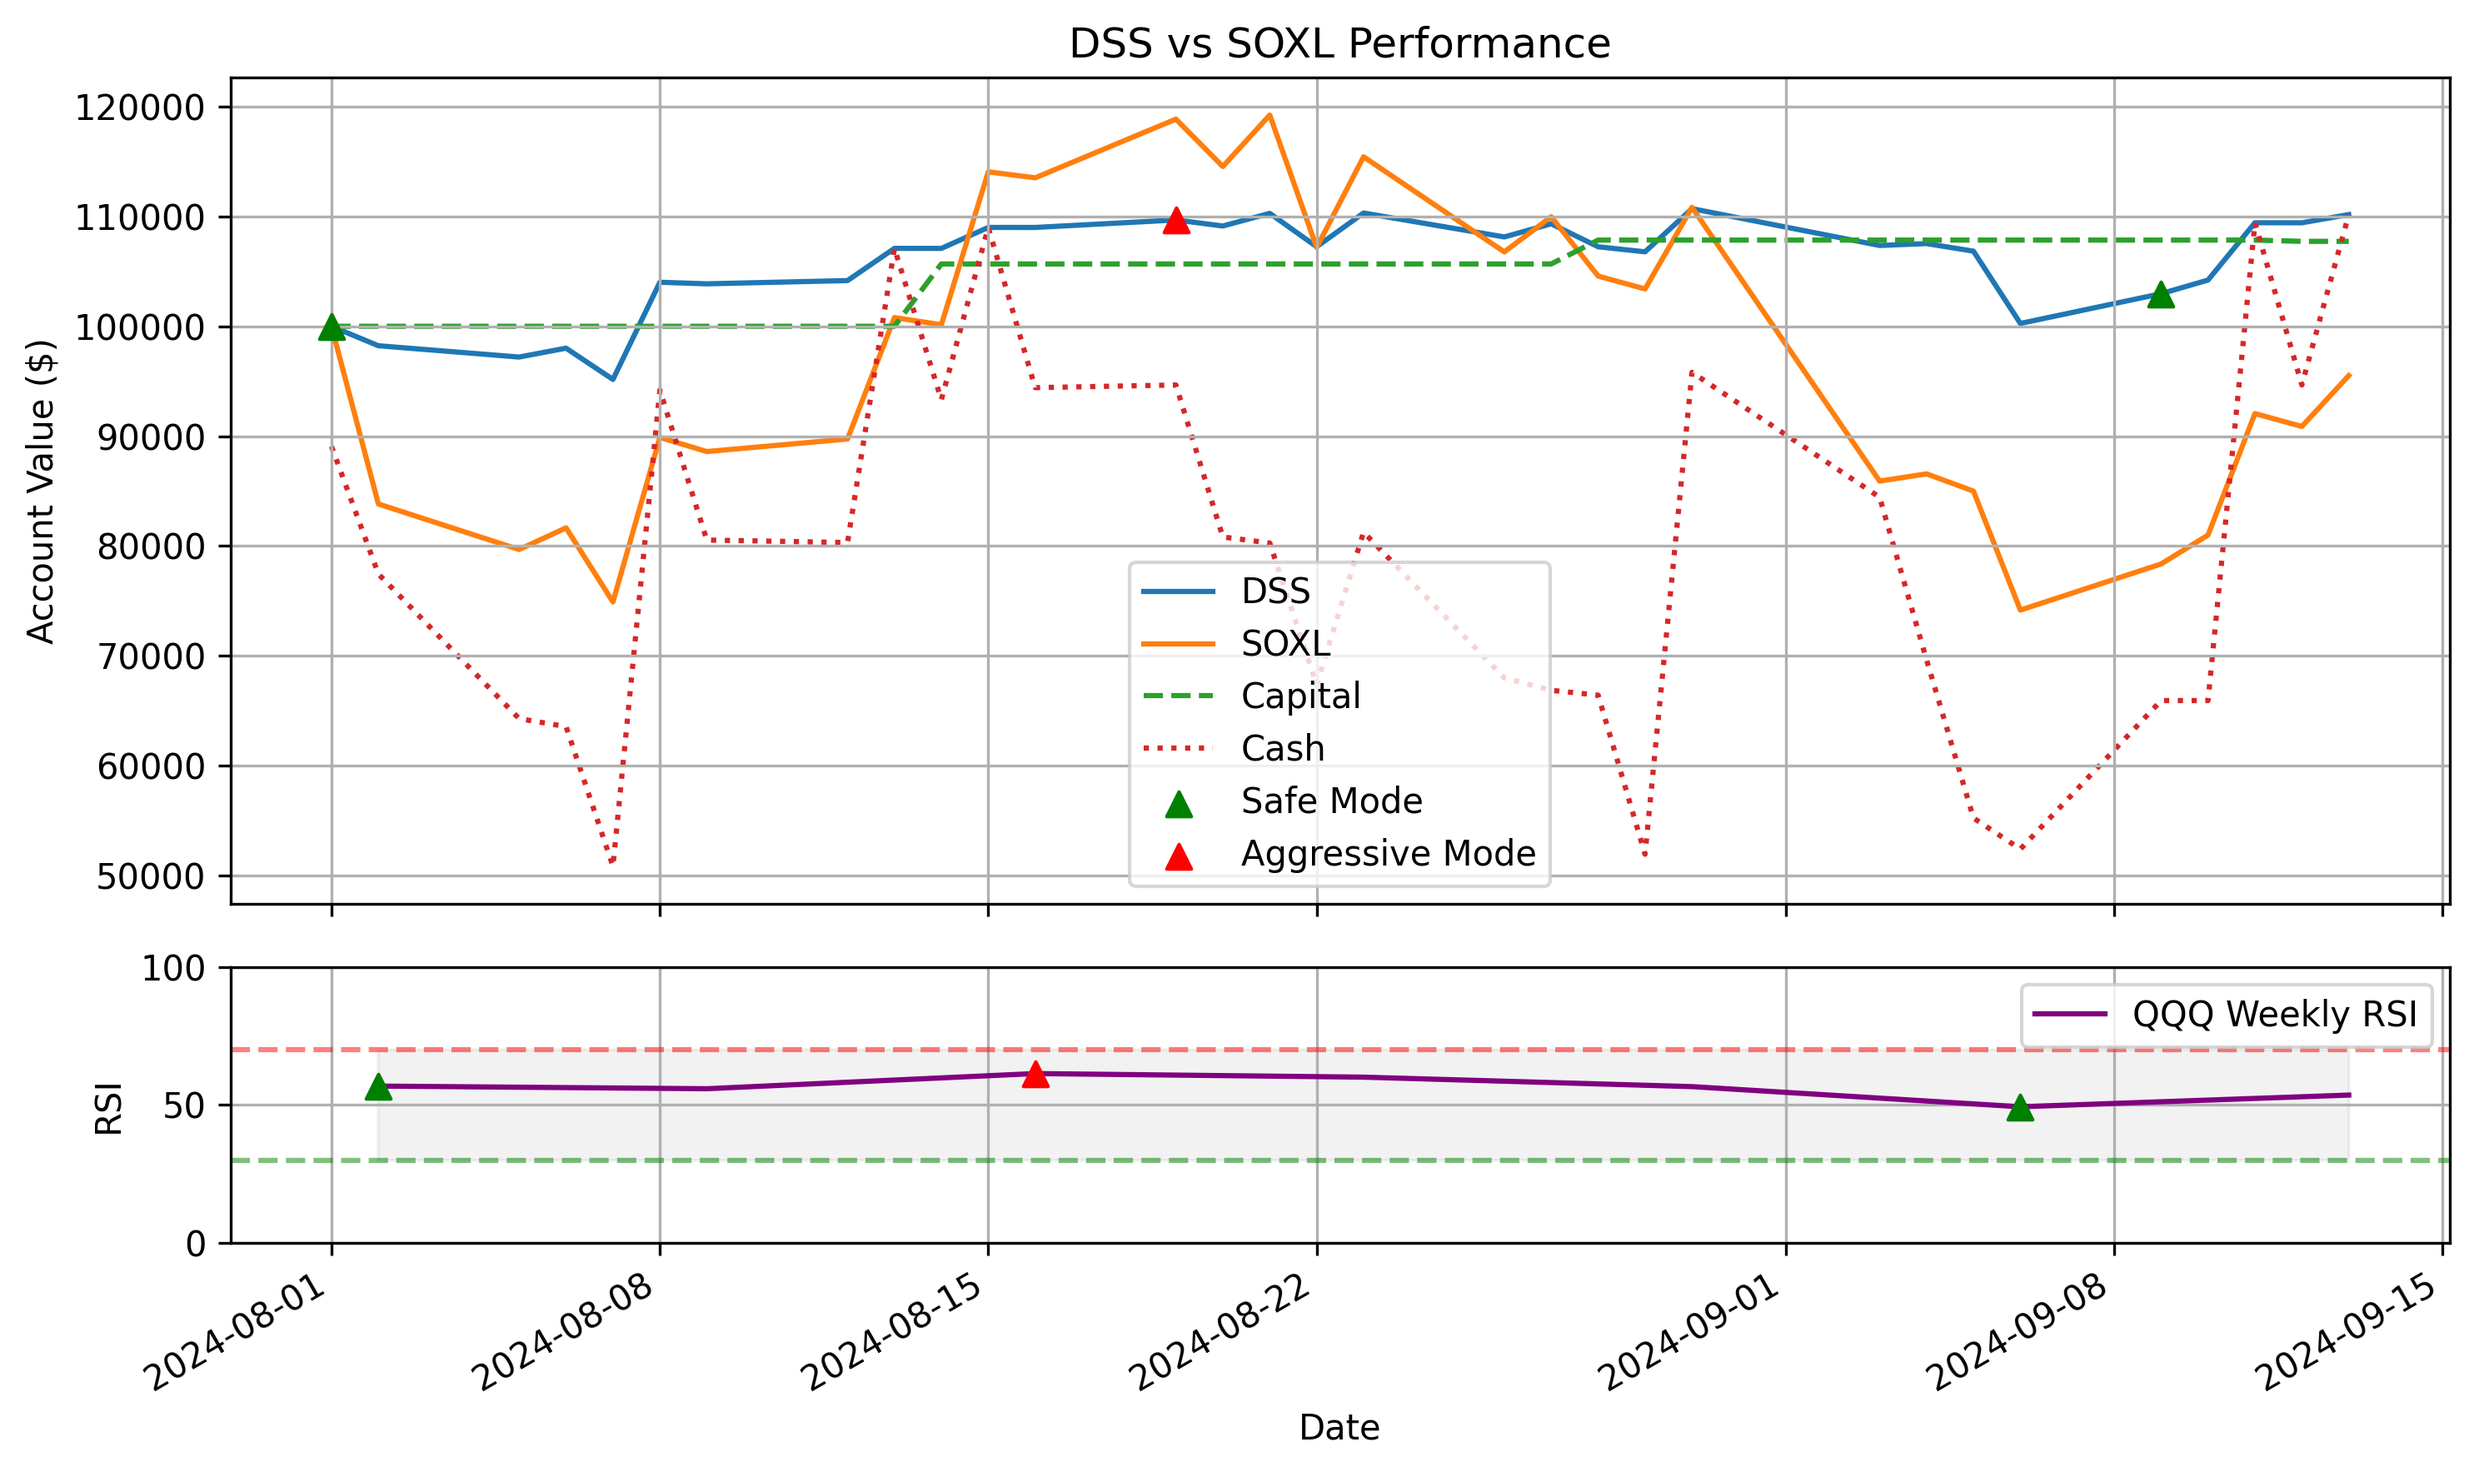
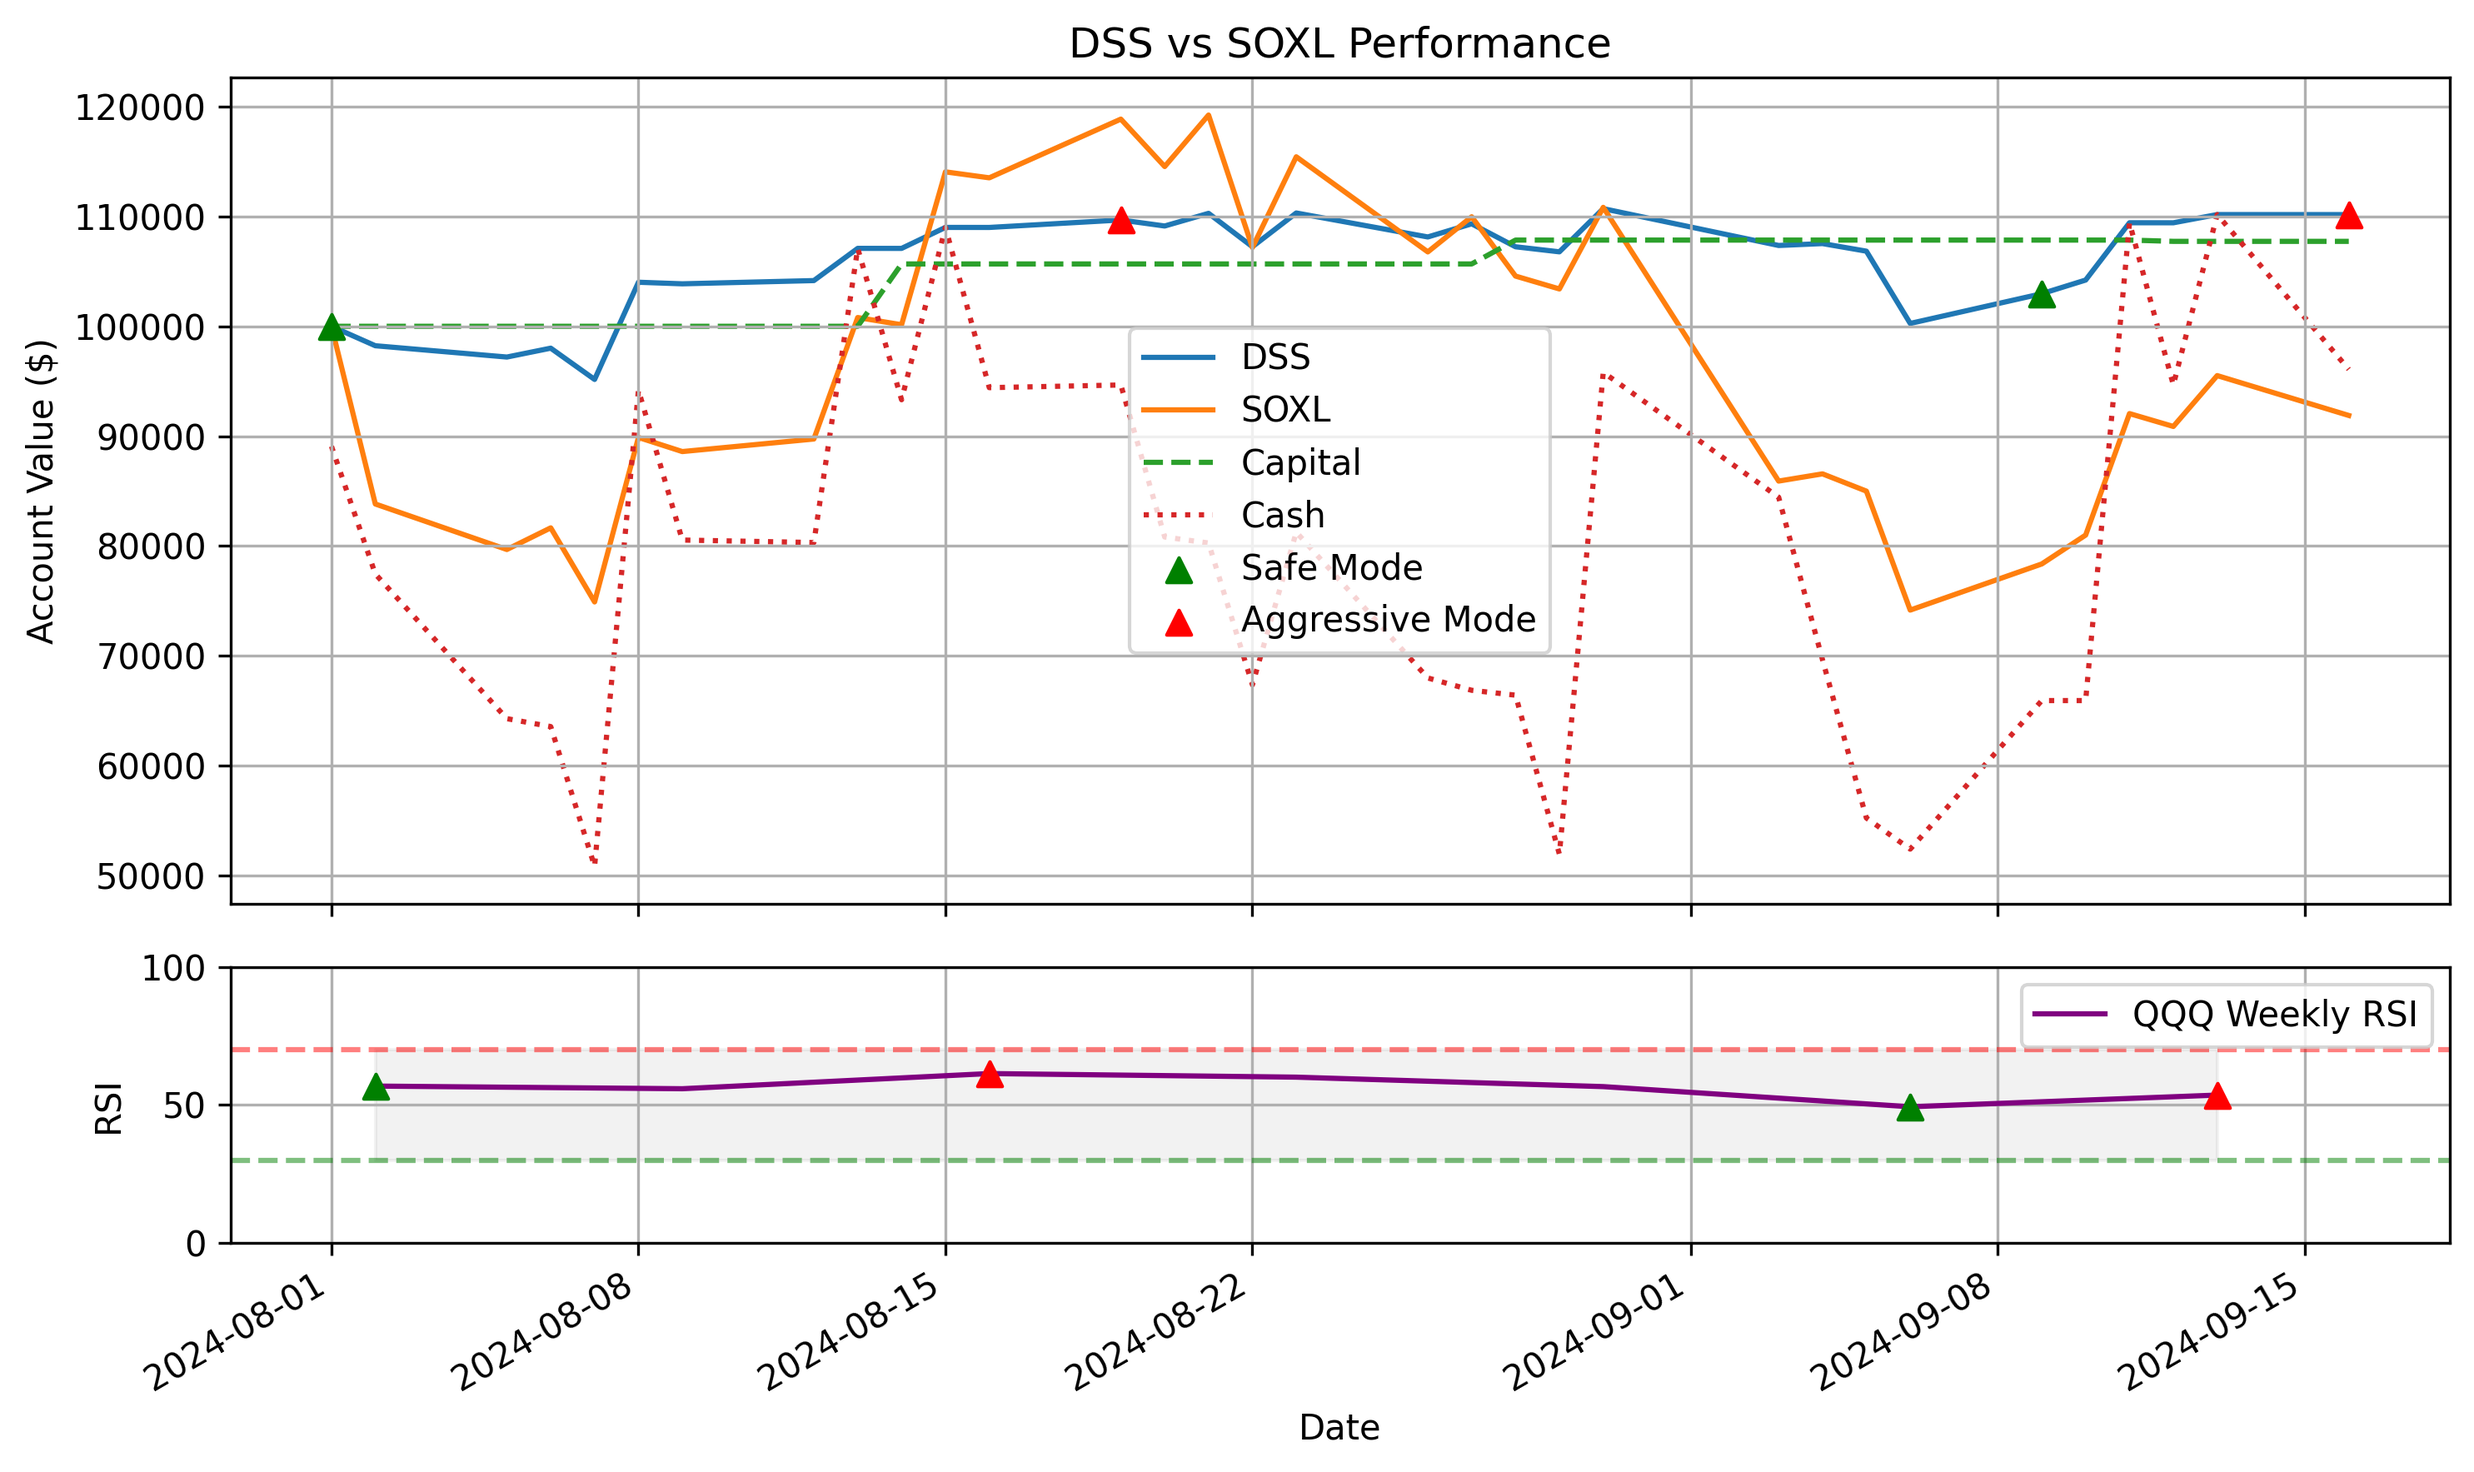
Update index.md and DSS_graph.png on Tue Sep 17 03:32:39 UTC 2024

diff --git a/index.md b/index.md
@@ -1,16 +1,17 @@
-# SOXL에 대한 LOC 주문 및 매개변수 - 2024-09-16
+# SOXL에 대한 LOC 주문 및 매개변수 - 2024-09-17
 
 # 일일 요약
 
 - **오늘의 모드:** aggressive
-- **현재 계좌 평가액:** $110167.80
-- **사용 가능 현금:** $110167.80
+- **현재 계좌 평가액:** $110164.98
+- **사용 가능 현금:** $96078.90
 
 ## 주문
 
 | 유형 | 가격 | 수량 | 기한 | 매수일 | 매수가격 | 매수모드 |
 |------|------|------|------|--------|----------|----------|
-| BUY LOC | 35.1 | 438 | 오늘 | - | - | - |
+| SELL LOC | 32.96 | 438 | 2024-09-24 | 2024-09-16 | 32.16 | 공세 |
+| BUY LOC | 33.77 | 455 | 오늘 | - | - | - |
 
 ## 모든 매개변수
 
@@ -23,10 +24,10 @@
 - **손실복리율:** 30.0%
 - **수수료율:** 0.02%
 - **거래 시작일:** 2024-08-01
-- **거래 종료일:** 2024-09-16
-- **거래 기간:** 46일
+- **거래 종료일:** 2024-09-17
+- **거래 기간:** 47일
 
-2024-09-16 03:42:26.209748 에 업데이트됨
+2024-09-17 03:32:39.090627 에 업데이트됨
 
 ## DSS 그래프
 
